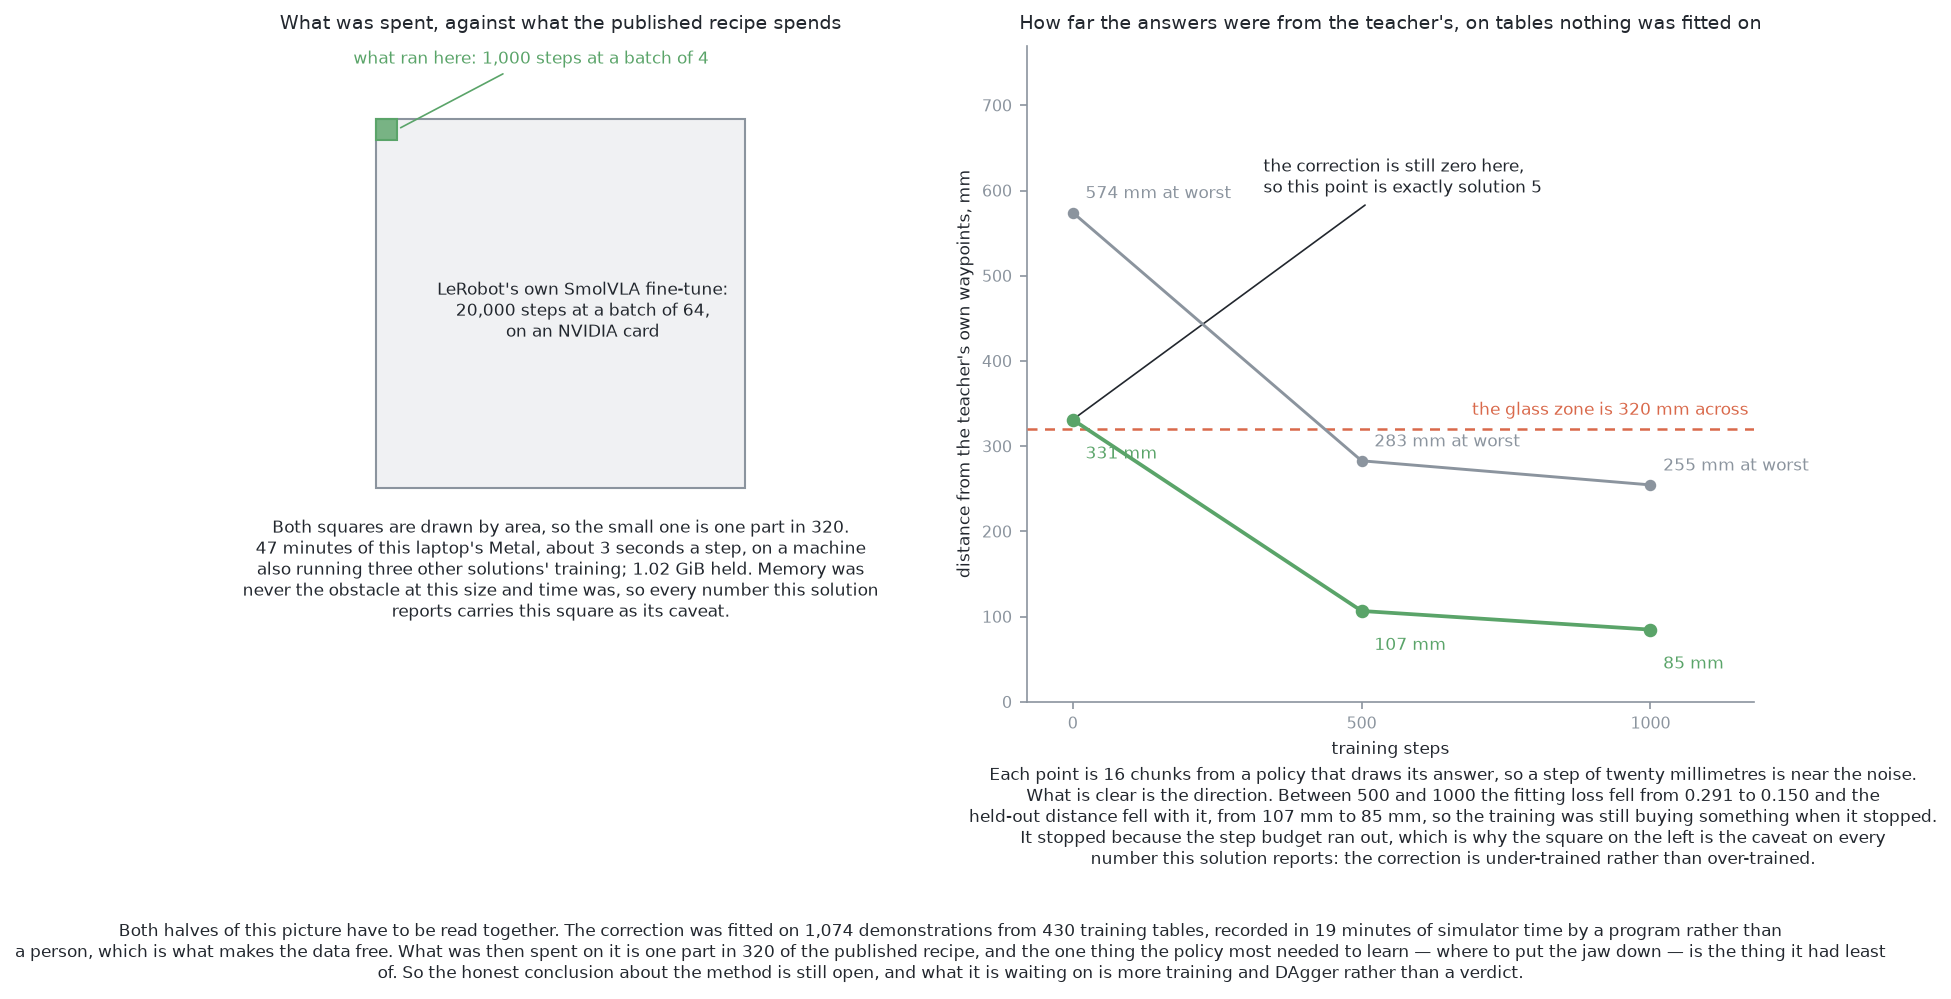
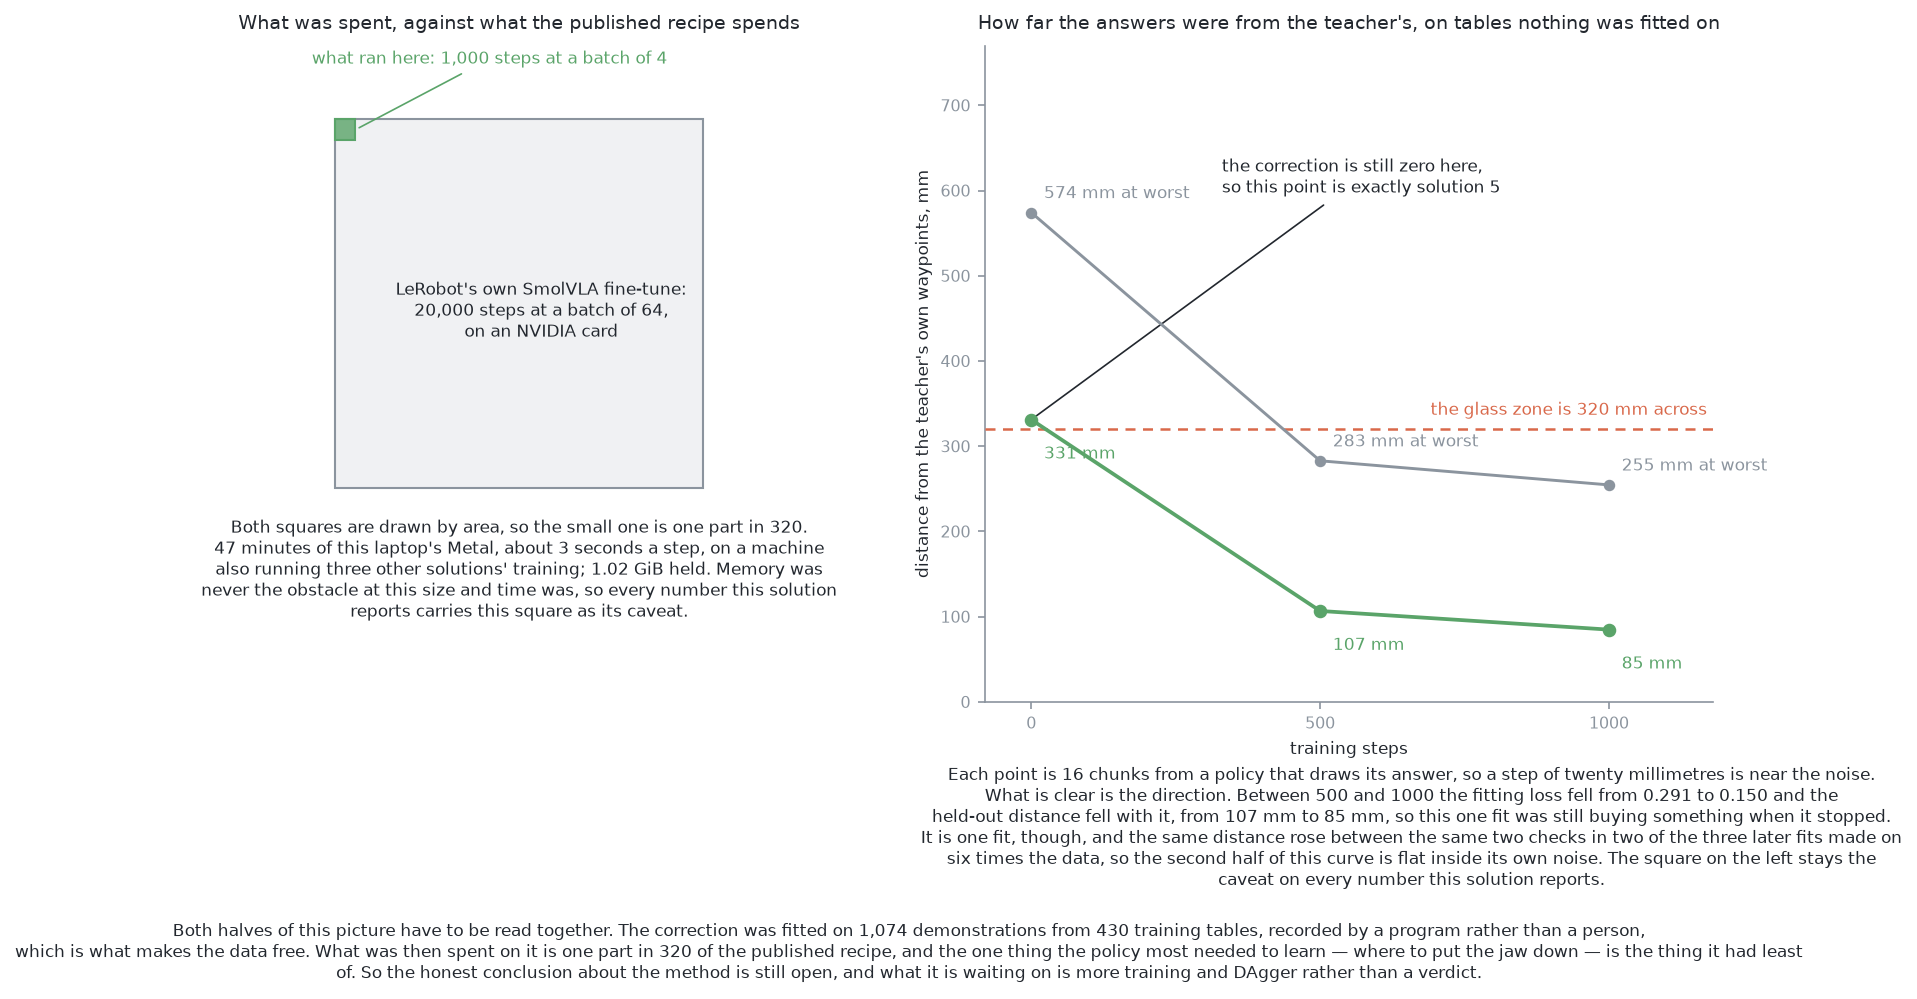
The compute picture and its caption say what the committed fit really did
The caption under the compute picture quoted a fit that no longer exists: 320
mm at step zero falling to 84 by step 500, in 68 minutes. The committed
training record says 331 mm, then 107 at step 500 and 85 at the end, in 47
minutes, which is what the picture itself has been drawing all along.

The picture no longer concludes that the correction is under-trained, because
three later fits on six times the data moved the same distance up as often as
down between the same two checks. It quotes the collection's own clock no
longer either, since that file now describes the larger band while the fit
drawn here came from the earlier one.

The labels in the middle panel of the chunk-shape picture sit on the glass
zone's dashed border, so they now carry a white patch and the border no longer
runs through the words.

Claude-Session: https://claude.ai/code/session_01XyRCUre2Up5PigZiQQhtHo

diff --git a/v5-pick-glasses/images/generators/03-push-glasses-apart/make_06_images.py b/v5-pick-glasses/images/generators/03-push-glasses-apart/make_06_images.py
@@ -11,7 +11,10 @@ Every number drawn here is read out of a committed file rather than typed in:
   the model's numbers move, what the training held, and the held-out error at
   each check;
 - ``06-smolvla-fine-tuned/demonstrations/collected.json`` — what the teacher's
-  own chunks looked like, which is the shape the student was fitted towards;
+  own chunks looked like, which is the shape the student was fitted towards.
+  Only the shape is taken from it, and not the collection's own clock, because
+  this file now describes the larger band while the correction drawn here was
+  fitted on the earlier one;
 - ``06-smolvla-fine-tuned/asking.json`` and ``05-smolvla-as-it-downloads/asking.json``
   — the shape of each half of the pair's answers, measured the same way by the
   same code;
@@ -296,8 +299,12 @@ def picture_what_moved(mine: dict, theirs: dict, teacher: dict) -> None:
         y = y_from - 60 + 130 * index
         far.annotate("", xy=(x_from + across, y), xytext=(x_from, y), zorder=5,
                      arrowprops={"arrowstyle": "-|>", "color": colour, "lw": 1.6})
+        # The arrows start inside the glass zone, so these labels sit on top of its
+        # dashed border. A white patch behind the words keeps the border from
+        # running through them.
         far.text(x_from, y + 34, f"{label}: {across:.0f} mm", fontsize=NOTE_SIZE, color=colour,
-                 ha="left", va="bottom")
+                 ha="left", va="bottom", zorder=6,
+                 bbox={"facecolor": "white", "edgecolor": "none", "pad": 1.5})
     far.set_xlim(x_from - 40, x_from + rows[0][2] + 70)
     far.set_ylim(y_from - 120, y_to + 90)
 
@@ -552,16 +559,17 @@ def picture_the_compute(training: dict, collected: dict) -> None:
           f"{history[1]['step']} and {history[2]['step']} the fitting loss fell from "
           f"{history[1]['loss']:.3f} to {history[2]['loss']:.3f} and the\nheld-out distance fell "
           f"with it, from {history[1]['tuning_mm']['median']:.0f} mm to "
-          f"{history[2]['tuning_mm']['median']:.0f} mm, so the training was still buying something "
-          f"when it stopped.\nIt stopped because the step budget ran out, which is why the square "
-          f"on the left is the caveat on every\nnumber this solution reports: the correction is "
-          f"under-trained rather than over-trained.", y=0.215)
+          f"{history[2]['tuning_mm']['median']:.0f} mm, so this one fit was still buying something "
+          f"when it stopped.\nIt is one fit, though, and the same distance rose between the same "
+          f"two checks in two of the three later fits made on\nsix times the data, so the second "
+          f"half of this curve is flat inside its own noise. The square on the left stays the\n"
+          f"caveat on every number this solution reports.", y=0.215)
 
     footer(figure,
            f"Both halves of this picture have to be read together. The correction was fitted on "
            f"{training['demonstrations']:,} demonstrations from {training['tables_fitted_on']} "
-           f"training tables, recorded in {collected['seconds'] / 60:.0f} minutes of simulator time "
-           f"by a program rather than\na person, which is what makes the data free. What was then "
+           f"training tables, recorded by a program rather than a person,\n"
+           f"which is what makes the data free. What was then "
            f"spent on it is one part in {part:.0f} of the published recipe, and the one thing the "
            f"policy most needed to learn — where to put the jaw down — is the thing it had "
            f"least\nof. So the honest conclusion about the method is still open, and what it is "

diff --git a/v5-pick-glasses/docs/03-push-glasses-apart/solutions/06-smolvla-fine-tuned.md b/v5-pick-glasses/docs/03-push-glasses-apart/solutions/06-smolvla-fine-tuned.md
@@ -899,7 +899,7 @@ domain gap further while making both forgetting and overfitting more likely. So
 there is a sensible amount of training rather than a maximum, and the held-out
 half of the tables is what decides where it is.
 
-![What was actually spent is one part in 320 of the compute LeRobot's own SmolVLA fine-tune asks for — a thousand steps at a batch of four against twenty thousand at a batch of sixty-four — and it took 68 minutes of this laptop's Metal while 1.02 GiB was held, so memory was never the obstacle at this size and time was; on tuning tables nothing was fitted on, the distance from the teacher's own waypoints fell from 320 mm at step zero, where the correction is still zero and the model is therefore exactly solution 5, to 84 mm by step 500, and then stopped, while the fitting loss went on halving, which is the shape that says the extra training is going into the examples rather than into the pushing.](../../../images/03-push-glasses-apart/06-a-thousandth-of-the-recipe.png)
+![What was actually spent is one part in 320 of the compute LeRobot's own SmolVLA fine-tune asks for — a thousand steps at a batch of four against twenty thousand at a batch of sixty-four — and it took 47 minutes of this laptop's Metal while 1.02 GiB was held, so memory was never the obstacle at this size and time was; on tuning tables nothing was fitted on, the distance from the teacher's own waypoints fell from 331 mm at step zero, where the correction is still zero and the model is therefore exactly solution 5, to 107 mm at step 500 and 85 mm at the end, and the last of those three steps is inside the noise, because the same distance rose rather than fell in two of the three later fits made on six times the data.](../../../images/03-push-glasses-apart/06-a-thousandth-of-the-recipe.png)
 
 A third thing is not a risk of training but a consequence of it, and it belongs
 here because it decides how this solution is measured at all. A policy of this
